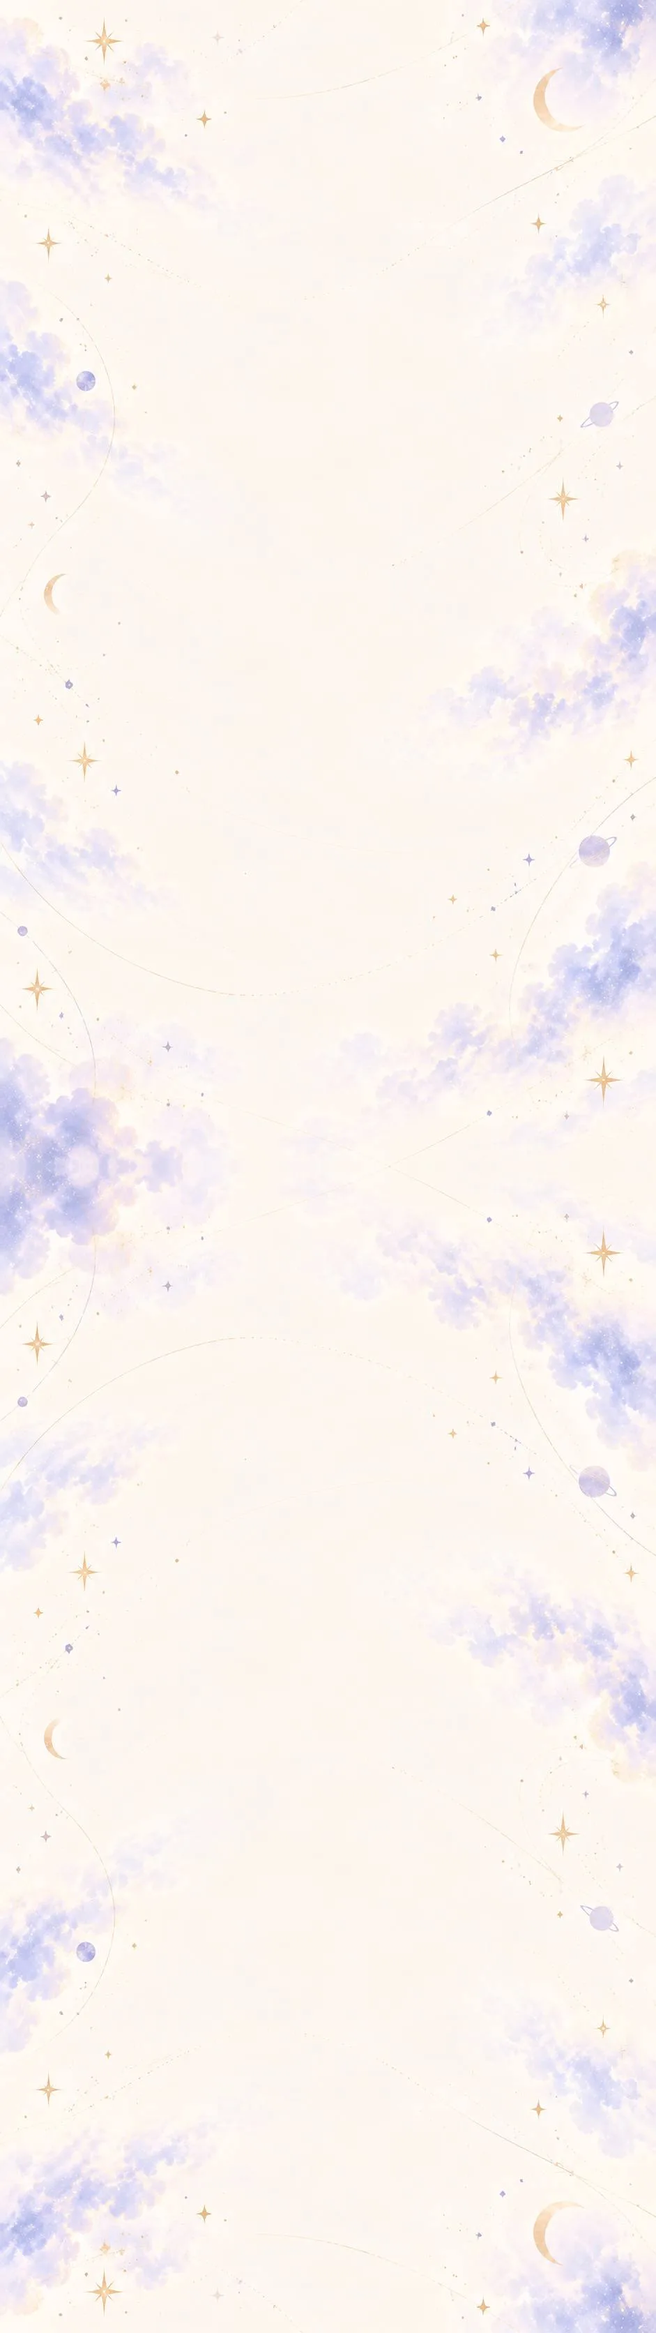
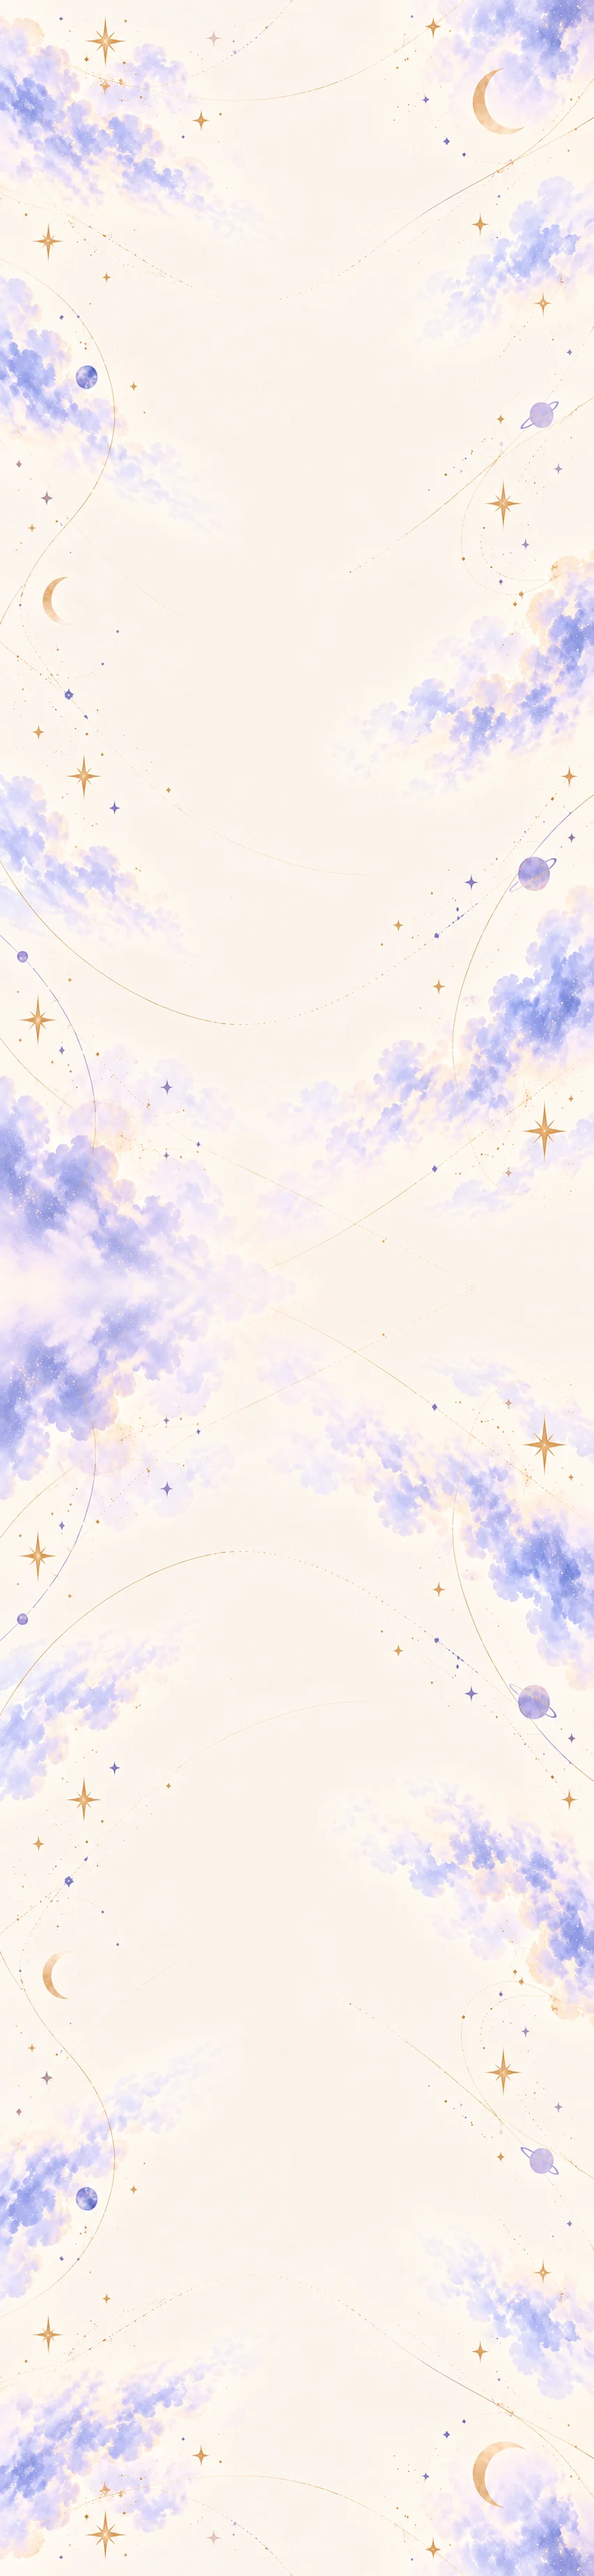
我的星空 / 生命脉络:版面、背景与互动调整 (#72)
* My sky: vertically centre the hero text (desktop and mobile)

- Desktop (>=1101px): move part of the hero's bottom padding above the
  text block; hero height unchanged (1280: 46/115 -> 84/77 px gaps)
- Mobile: bottom padding max(20px, 30vw - 93px) so the text sits midway
  between the arch scene and the hero bottom

Claude-Session: https://claude.ai/code/session_01KWTtJBbV1tTkbqudQevH8t

* My sky (mobile): swipe cards snap to the centre

Four-core and twelve-house carousels use scroll-snap-align:center; the
side padding moves to the first/last card's outer margin ((100% - card
width) / 2) so the first and last cards also stop centred. Verified at
390/430/700px: every card settles 0px from centre, no horizontal overflow.

Claude-Session: https://claude.ai/code/session_01KWTtJBbV1tTkbqudQevH8t

* My sky: remove the big panels behind the core and house cards

- Twelve houses: the group panel behind the cards is fully transparent
  (no fill, border, shadow or orbit decoration); desktop and mobile
- Mobile: card shadows shrink so the swipe container no longer clips
  them into a pale rectangle behind the four-core and house cards

Claude-Session: https://claude.ai/code/session_01KWTtJBbV1tTkbqudQevH8t

* My sky (mobile): tighter tab-to-card gap; swipe past the last house card to the next group

- Group padding on mobile 22px -> 2px top / 10px bottom (tabs-to-card gap 39 -> ~19px)
- Swiping left on the last card of a group switches to the next group
[…]

diff --git a/app.html b/app.html
@@ -1634,6 +1634,11 @@
      ============================================================ */
   #dpage.sky-page .dp-hero{padding-bottom:clamp(60px,9vw,150px)}
   @media(min-width:1101px){#dpage.sky-page .dp-hero-grid{grid-template-columns:minmax(0,1fr) minmax(0,1.2fr)}}
+  /* 左边 hero 文字上下置中(用户:偏上):把底部留白挪一部分到文字上方,hero 总高不变 */
+  @media(min-width:1101px){
+    #dpage.sky-page .dp-hero-grid{padding-top:clamp(0px,3vw,50px)}
+    #dpage.sky-page .dp-hero{padding-bottom:calc(clamp(60px,9vw,150px) - clamp(0px,3vw,50px))}
+  }
   #dpage.sky-page .sky-meta{
     display:inline-block;max-width:none;border:1px solid rgba(201,178,140,.5);border-top-color:rgba(201,178,140,.5);
     border-radius:999px;padding:8px 20px;background:rgba(255,252,246,.7)
@@ -1892,7 +1897,9 @@
     #dpage .sky-overview{margin-top:0}
   }
   @media(max-width:767px){
-    #dpage.sky-page .dp-hero{padding-bottom:40px}
+    /* 文字落在拱门场景(约 100vw 高)与 hero 底(160vw)之间的正中;
+       文字块约 186px,所以底部留白 = 30vw - 93px,最少 20px */
+    #dpage.sky-page .dp-hero{padding-bottom:max(20px,calc(30vw - 93px))}
     #dpage .sky-hd h2 .scr{display:block;margin:2px 0 0;font-size:22px}
     #dpage .sky-overview .ov-table{grid-template-columns:minmax(0,1fr)}
     #dpage .sky-core .sky-card{flex:0 0 84%;min-height:190px}
@@ -1959,7 +1966,26 @@
     #dpage .sky-group .sky-group-hd .nos{flex:1 1 100%;order:0;font-size:12.5px}
     #dpage .sky-group .sky-houses{display:flex}
     #dpage .sky-houses .sky-house{flex:0 0 76%;min-height:300px}
+    /* 滑动后卡片停在正中间(用户要求):snap 对齐改成 center,
+       左右内距改由第一 / 最后一张卡的外距提供 = (100% − 卡宽) / 2,
+       这样第一张、最后一张也能停在正中,不会贴边 */
+    #dpage .sky-core,#dpage .sky-group .sky-houses{padding-left:0;padding-right:0;scroll-padding:0}
+    #dpage .sky-core .sky-card,#dpage .sky-houses .sky-house{scroll-snap-align:center}
+    #dpage .sky-core .sky-card:first-child{margin-left:8%}
+    #dpage .sky-core .sky-card:last-child{margin-right:8%}
+    #dpage .sky-houses .sky-house:first-child{margin-left:12%}
+    #dpage .sky-houses .sky-house:last-child{margin-right:12%}
+    /* 卡片投影原本 14–44px,被横向滑动容器裁掉之后,卡片后面会出现一块
+       方形的淡底(像一张大卡片)。投影收小到容器留白装得下 */
+    #dpage .sky-core .sky-card{box-shadow:0 3px 8px rgba(9,18,46,.05)}
+    #dpage .sky-houses .sky-house{box-shadow:0 3px 8px rgba(80,60,40,.05)}
+    /* 分页签与卡片之间收窄(用户要求):分组大卡片已经透明,不需要它的上下内距 */
+    #dpage .sky-gwrap > .sky-group{padding-top:2px;padding-bottom:10px}
   }
+  /* 十二个生命领域:卡片后面那张分组大卡片完全透明(用户要求不透明度降到最低),
+     只留卡片本身;底色、边框、投影、轨道装饰一起拿掉 */
+  #dpage .sky-group{background:none;border-color:transparent;box-shadow:none}
+  #dpage .sky-group .atmos{display:none}
   /* ============================================================
      属于我的生命脉络(#/map)—— 编辑式的「一条线」版面
      ------------------------------------------------------------
@@ -1976,17 +2002,22 @@
 
   /* —— Hero:云天底 + 右侧大月亮,再柔和地化进象牙色的正文区 —— */
   #dpage.thread-page .dp-hero{
+    /* 深蓝暗罩(试过白罩,用户要求换回黑罩) */
     background:
       linear-gradient(180deg,rgba(9,18,46,.66) 0%,rgba(9,18,46,.24) 42%,rgba(9,18,46,.42) 100%),
       /* 底图右上角自己带一颗月亮 —— 放大并靠左取景把它推出画面,
          这一页只留 asset 02 那一颗,不要两颗月亮打架 */
       url(assets/life/hero-sky.webp) left 56% / 142% auto no-repeat,
       var(--dp-navy);
-    padding-bottom:clamp(66px,9vw,124px)
+    /* hero 比其他页高很多(1280 宽约 672px vs 其他页 300–540px):
+       底部留白、格子最小高度、星链与结语的间距一起收 */
+    padding-bottom:clamp(44px,5.4vw,84px)
   }
   #dpage.thread-page .dp-hero .dp-stars i{opacity:calc(var(--o,.5) * .55)}
   /* 底缘化进正文的象牙色 —— hero 不设 overflow:hidden(账号选单会被切掉) */
+  /* 用户要求:拿掉 hero 最下面那一段化进象牙色的白色渐层,云天直接到底(display:none) */
   #dpage.thread-page .dp-hero::after{
+    display:none;
     content:"";position:absolute;left:0;right:0;bottom:0;z-index:1;pointer-events:none;
     height:clamp(104px,15vw,208px);
     /* 多给几个停点,而且中段刻意走得慢 —— 天空是「化」进纸里的,不是被一条边切断 */
@@ -2002,8 +2033,8 @@
   #dpage.thread-page .dp-hero-grid{
     z-index:2;grid-template-columns:minmax(0,1fr);overflow:hidden;
     text-align:center;justify-items:center;
-    padding:calc(clamp(26px,5vw,62px) + 20px) 0 clamp(18px,4vw,40px);
-    min-height:clamp(230px,30vw,400px);align-content:center
+    padding:calc(clamp(18px,3vw,40px) + 16px) 0 clamp(12px,2.4vw,28px);
+    min-height:clamp(200px,22vw,300px);align-content:center
   }
   #dpage.thread-page .dp-hero-grid > div{max-width:min(100%,var(--dp-text))}
   #dpage.thread-page .dp-sub{max-width:30em;margin:0 auto}
@@ -2026,7 +2057,7 @@
   /* 九颗星:读过的点亮,还没读的留一点微光。不是进度条,不显示数字。
      辅助文案下面不再放记号 —— 这段距离由星链自己接住。 */
   #dpage.thread-page .thread-vow .stars{
-    display:block;width:min(340px,76vw);margin:clamp(24px,3vw,38px) 0 0
+    display:block;width:min(340px,76vw);margin:clamp(16px,2vw,24px) 0 0
   }
   #dpage.thread-page .thread-vow .stars svg{display:block;width:100%;height:auto}
   /* 出现的那几颗用素材本身的颜色,不套滤镜。
@@ -2035,18 +2066,21 @@
   #dpage.thread-page .thread-vow .stars .orb{
     filter:drop-shadow(0 1px 3px rgba(22,20,44,.45))
   }
+  /* 结语改成一行、字小一点(用户要求):「直到九颗星　连成只属于你的生命脉络」 */
   #dpage.thread-page .thread-vow .b{
-    display:flex;flex-direction:column;align-items:center;gap:3px;
-    font-family:var(--dp-serif);font-weight:400;line-height:1.6;
-    letter-spacing:.12em;margin-top:clamp(38px,4.4vw,50px)
+    display:flex;flex-direction:row;flex-wrap:wrap;justify-content:center;align-items:baseline;
+    column-gap:.9em;row-gap:0;
+    font-family:var(--dp-serif);font-weight:400;line-height:1.7;
+    letter-spacing:.12em;margin-top:clamp(20px,2.4vw,30px)
   }
   #dpage.thread-page .thread-vow .b1{
-    font-size:clamp(18px,2vw,21.5px);color:rgba(240,233,222,.6)
+    font-size:clamp(14px,1.3vw,16px);color:rgba(240,233,222,.78)
   }
+  /* hero 变矮之后这一行落在比较亮的云上:一层暗色投影托住字(跟手机同一做法) */
+  #dpage.thread-page .thread-vow .b > span{text-shadow:0 1px 12px rgba(26,24,48,.55)}
   #dpage.thread-page .thread-vow .b2{
-    font-weight:300;font-size:clamp(16.5px,1.8vw,20px);
-    letter-spacing:.2em;color:rgba(240,231,217,.74);
-    text-shadow:0 1px 22px rgba(170,160,213,.16)
+    font-weight:300;font-size:clamp(14px,1.3vw,16px);
+    letter-spacing:.14em;color:rgba(240,231,217,.86)
   }
   #dpage.thread-page .dp-hero-art{
     position:absolute;right:clamp(-46px,-1vw,0px);top:50%;transform:translateY(-50%);
@@ -2061,13 +2095,25 @@
   }
   /* 那几片辉光原本画在正文区自己的底上 —— 正文区比视窗窄,所以左右会留下一道
      看得见的直边。改成一层满版的底,光就化在纸上,而不是化在一个方框里。 */
+  /* 用户给的新底图:电脑一张横式、手机一张直式。两张都是「中间留白的纸、
+     四周一圈星空水彩」的画框构图,所以固定在视窗、铺满不重复 —— 卷动时画框
+     留在原地,只有内容在动(position:fixed,不用 background-attachment:fixed,
+     后者在 iOS Safari 上会跳)。上面盖一层很浅的 8% 黑罩(用户要求试试看;
+     之前是 50% 象牙白罩)。 */
   #dpage.thread-page .dp-body::before{
-    content:"";position:absolute;top:0;bottom:0;left:calc(50% - 50vw);width:100vw;
+    content:"";position:fixed;inset:0;
     z-index:0;pointer-events:none;
-    /* 用户给的星月云朵底图。原图是直式一张,这里用的是「原图 + 上下翻转」
-       接成的一张(thread-bg.webp),往下重复时接缝对得上,长页面也不会断。 */
-    background:url(assets/life/thread-bg.webp) center top / 100% auto repeat-y,#fcf6ef
+    background:linear-gradient(rgba(0,0,0,.08),rgba(0,0,0,.08)),
+      url(assets/life/thread-bg-d.webp) center / cover no-repeat,#fbf3e8
   }
+  @media(max-width:767px){
+    #dpage.thread-page .dp-body::before{
+      background:linear-gradient(rgba(0,0,0,.08),rgba(0,0,0,.08)),
+        url(assets/life/thread-bg-m.webp) center / cover no-repeat,#fbf3e8
+    }
+  }
+  /* 固定底图会盖过 hero(两者在同一层叠顺序里),hero 往上提一层 */
+  #dpage.thread-page > .dp-hero{position:relative;z-index:2}
   #dpage.thread-page .dp-body > *{position:relative;z-index:1}
   /* 这一页不要一格一格的白卡片:等待 / 进度 / 错误那几种状态卡保持原样,
      只有读完之后的长文版面走开放式排版。 */
@@ -2552,21 +2598,21 @@
            下缘是云,再交给 ::after 化进象牙色 —— 中间不会出现一条硬边。 */
         url(assets/life/hero-sky.webp) left bottom / 215% auto no-repeat,
         var(--dp-navy);
-      padding-bottom:clamp(52px,15vw,86px)
+      padding-bottom:clamp(40px,11vw,64px)
     }
     #dpage.thread-page .dp-hero-grid{
       min-height:0;padding:calc(clamp(18px,5vw,30px) + 12px) 0 clamp(14px,4vw,22px)
     }
     #dpage.thread-page .thread-vow{margin-top:14px}
     #dpage.thread-page .thread-vow .a{font-size:12px;letter-spacing:.16em}
-    #dpage.thread-page .thread-vow .stars{width:min(310px,86vw);margin-top:22px}
-    #dpage.thread-page .thread-vow .b{margin-top:30px;gap:2px;letter-spacing:.08em}
+    #dpage.thread-page .thread-vow .stars{width:min(310px,86vw);margin-top:16px}
+    #dpage.thread-page .thread-vow .b{margin-top:18px;column-gap:.6em;letter-spacing:.04em}
     /* 手机上这两行正好压在最亮的云带上,靠一点暗色投影拉开对比,而不是把字调亮 */
     #dpage.thread-page .thread-vow .b1{
-      font-size:16px;text-shadow:0 1px 10px rgba(26,24,48,.5)
+      font-size:13px;text-shadow:0 1px 10px rgba(26,24,48,.5)
     }
     #dpage.thread-page .thread-vow .b2{
-      font-size:15px;letter-spacing:.15em;
+      font-size:13px;letter-spacing:.06em;
       text-shadow:0 1px 12px rgba(26,24,48,.5)
     }
     #dpage.thread-page h1.dp-title{font-size:26px;letter-spacing:.08em;line-height:1.5}
@@ -2912,7 +2958,10 @@
   /* 插画:占满卡片的一侧,往文字那一侧淡出 */
   #dpage.thread-page .thread-trail > .thread-ch > .ch-art{
     grid-area:art;position:relative;align-self:stretch;justify-self:stretch;
-    width:auto;max-width:none;min-height:100%;margin:0;transform:none;z-index:0
+    /* min-height 不用 100%:它量的是这张卡自己的格子高度,是循环参照。
+       Safari 会沿用「展开时」算出来的高度,收起后卡片缩不回去。
+       align-self:stretch 已经让插画填满整张卡,不需要再撑。 */
+    width:auto;max-width:none;min-height:0;margin:0;transform:none;z-index:0
   }
   #dpage.thread-page .thread-trail > .thread-ch > .ch-art::before{content:none}
   /* ── 插画处理(依用户的 Sample):大插画 + editorial 文字,两者都是卡片的主角 ──
@@ -3008,9 +3057,10 @@
     text-align:center;margin:clamp(4px,1vw,12px) auto clamp(26px,3.4vw,40px);max-width:34em
   }
   /* 顶端很轻的章节引言:一句 + 一小段,之后留白 */
+  /* 用户要求放大加粗:16–20 → 20–27px,字重 400 → 700 */
   #dpage.thread-page .thread-intro .a{
-    margin:0;font-family:var(--dp-serif);font-weight:400;
-    font-size:clamp(16px,1.9vw,20px);line-height:1.9;letter-spacing:.08em;color:#3b3f68
+    margin:0;font-family:var(--dp-serif);font-weight:700;
+    font-size:clamp(20px,2.3vw,27px);line-height:1.7;letter-spacing:.08em;color:#2b2e5e
   }
   #dpage.thread-page .thread-intro .b{
     margin:clamp(12px,1.6vw,18px) 0 0;font-family:var(--dp-serif);font-size:clamp(12.5px,1.4vw,14.5px);
@@ -3040,6 +3090,24 @@
     font-size:clamp(16px,1.9vw,20px);line-height:2;letter-spacing:.04em;color:#23264f
   }
   #dpage.thread-page .star-quote p + p{margin-top:clamp(12px,1.6vw,18px);font-weight:400;color:#3d4066}
+  /* 依用户的设计图重排:拿掉卡片(底色 / 边框 / 内框 / 光晕),改成开放式的一段引文 ——
+     左边一条细金线,线的左侧一颗金色星芒引导视线,文字靠左 */
+  #dpage.thread-page .star-quote{
+    max-width:860px;text-align:left;border:0;border-radius:0;background:none;box-shadow:none;
+    padding:clamp(22px,3vw,34px) 0 clamp(22px,3vw,34px) clamp(34px,4.4vw,60px);
+    margin-left:auto;margin-right:auto
+  }
+  #dpage.thread-page .star-quote::before{
+    inset:0 auto 0 clamp(14px,1.8vw,24px);width:1px;border:0;border-radius:0;
+    background:linear-gradient(180deg,rgba(196,152,72,0),rgba(196,152,72,.7) 18%,rgba(196,152,72,.7) 82%,rgba(196,152,72,0))
+  }
+  #dpage.thread-page .star-quote .st{
+    position:absolute;left:clamp(-10px,-1vw,-4px);top:30%;margin:0;
+    font-size:clamp(18px,2vw,24px);color:#c49848
+  }
+  /* 字级小一点(用户要求):17–22 → 15–18px */
+  #dpage.thread-page .star-quote p{font-weight:400;font-size:clamp(15px,1.6vw,18px);line-height:2;letter-spacing:.05em}
+  #dpage.thread-page .star-quote p + p{margin-top:0;color:#23264f}
 
   /* 过场:上方一枚星环、右侧一轮花月 */
   #dpage.thread-page .thread-bridge .cp{
@@ -3140,6 +3208,17 @@
   }
   #dpage.thread-page .thread-chapters .ch-card[data-ch="1"] .gl{background-image:url(assets/life/thread/mark-moon.webp)}
   #dpage.thread-page .thread-chapters .ch-card .gl svg{display:none}
+  /* 号码下面的记号改放在号码右边(用户要求):卡片改成两栏 grid,
+     第一列是「01 ✦」,其余每一段都横跨整张卡 */
+  #dpage.thread-page .thread-chapters .ch-card{
+    display:grid;grid-template-columns:auto minmax(0,1fr);column-gap:12px;
+    align-items:center;justify-items:start
+  }
+  #dpage.thread-page .thread-chapters .ch-card > *{grid-column:1 / -1}
+  #dpage.thread-page .thread-chapters .ch-card > .no{grid-column:1}
+  #dpage.thread-page .thread-chapters .ch-card > .gl{grid-column:2;margin:0}
+  /* 插画是 absolute:在 grid 里要保持 auto,才会以整张卡为定位基准(不然会被塞进某一格) */
+  #dpage.thread-page .thread-chapters .ch-card > .art{grid-column:auto;grid-row:auto}
   #dpage.thread-page .thread-chapters .ch-card .t{
     font-family:var(--dp-serif);font-weight:600;font-size:clamp(17px,1.9vw,21px);line-height:1.5;color:#23264f
   }
@@ -3154,7 +3233,7 @@
     font-family:var(--dp-serif);font-size:13px;letter-spacing:.1em;color:#3b3f78
   }
   @media(max-width:767px){
-    #dpage.thread-page .thread-intro .a{font-size:15.5px}
+    #dpage.thread-page .thread-intro .a{font-size:19px;letter-spacing:.04em}
     #dpage.thread-page .thread-bridge .moon-art{width:110px;right:0;top:70px;opacity:.75}
     #dpage.thread-page .thread-chapters .ch-card{padding:20px 40% 20px 18px;min-height:210px;border-radius:18px}
     #dpage.thread-page .thread-chapters .ch-card .art{width:48%}
@@ -12011,18 +12090,19 @@ window.Guide = (function () {
        生命线从这里之后才开始,所以它移进 .thread-trail 里(原本罩着整页)。 */
     /* 开场两段是版面文案(所有人都一样),不是针对谁的解读;tagline 才是他自己的那一句 */
     h += '<div class="thread-intro"><p class="a">' +
-      dpT("你的经历，从来不是彼此独立的。", "Nothing you have lived through stands on its own.") +
+      dpT("你的经历，从来不是彼此独立的", "Nothing you have lived through stands on its own") +
       '</p><p class="b">' +
-      dpT("有些事情发生在很久以前，<br>却仍然影响着你今天看待自己、关系和世界的方式。",
-          "Some of it happened long ago,<br>yet it still shapes how you see yourself, your relationships and the world.") +
+      dpT("有些事情发生在很久以前，<br>却仍然影响着你今天看待自己、关系和世界的方式",
+          "Some of it happened long ago,<br>yet it still shapes how you see yourself, your relationships and the world") +
       "</p></div>";
     /* 星语 Quote Card:这个人自己的那一句(tagline),单独放进一张半透明的星空卡。
-       原文一字不改,只在句号后分段,让它读起来像一段留给自己的话。 */
+       原文一字不改,只在句号后分段,让它读起来像一段留给自己的话。
+       用户要求:这一区块不显示句号 —— 只拿掉每一段结尾的「。」,内文其他标点不动 */
     if (data.tagline)
       h += '<div class="thread-open"><figure class="star-quote">' +
         '<span class="st" aria-hidden="true">✦</span>' +
         String(data.tagline).split(/(?<=。)/).filter(function (x) { return x.trim(); })
-          .map(function (x) { return "<p>" + esc0(x.trim()) + "</p>"; }).join("") +
+          .map(function (x) { return "<p>" + esc0(x.trim().replace(/[。.]+$/, "")) + "</p>"; }).join("") +
         "</figure></div>";
     h += dpThreadMap((data.sections || []).length);
     h += '<div class="thread-trail">' + dpThreadLine();
@@ -15788,6 +15868,33 @@ window.Guide = (function () {
       const pv = document.querySelector("#dpage .sky-garr.prev"), nx = document.querySelector("#dpage .sky-garr.next");
       if (pv) pv.addEventListener("click", function (e) { e.stopPropagation(); show(cur - 1); });
       if (nx) nx.addEventListener("click", function (e) { e.stopPropagation(); show(cur + 1); });
+      /* 手机:滑到这一组最后一张之后再往左滑,直接进下一个领域(从第一张);
+         在第一张再往右滑,回到上一个领域的最后一张。只在卡片列能横向滑动时生效 */
+      groups.forEach(function (g, k) {
+        const row = g.querySelector(".sky-houses");
+        if (!row) return;
+        let x0 = null, y0 = 0, atEnd = false, atStart = false;
+        row.addEventListener("touchstart", function (e) {
+          if (row.scrollWidth <= row.clientWidth + 2) { x0 = null; return; }
+          const t = e.touches[0];
+          x0 = t.clientX; y0 = t.clientY;
+          atEnd = row.scrollLeft + row.clientWidth >= row.scrollWidth - 4;
+          atStart = row.scrollLeft <= 4;
+        }, { passive: true });
+        row.addEventListener("touchend", function (e) {
+          if (x0 === null) return;
+          const t = e.changedTouches[0], dx = t.clientX - x0, dy = t.clientY - y0;
+          x0 = null;
+          if (Math.abs(dx) < 40 || Math.abs(dx) < Math.abs(dy) * 1.2) return;
+          const go = function (to, toEnd) {
+            show(to);
+            const r2 = groups[to].querySelector(".sky-houses");
+            if (r2) r2.scrollLeft = toEnd ? r2.scrollWidth : 0;
+          };
+          if (dx < 0 && atEnd && k < groups.length - 1) go(k + 1, false);
+          else if (dx > 0 && atStart && k > 0) go(k - 1, true);
+        }, { passive: true });
+      });
     })();
     skyAspAlign();
     if (!window.__skyAspAlignOn) {
